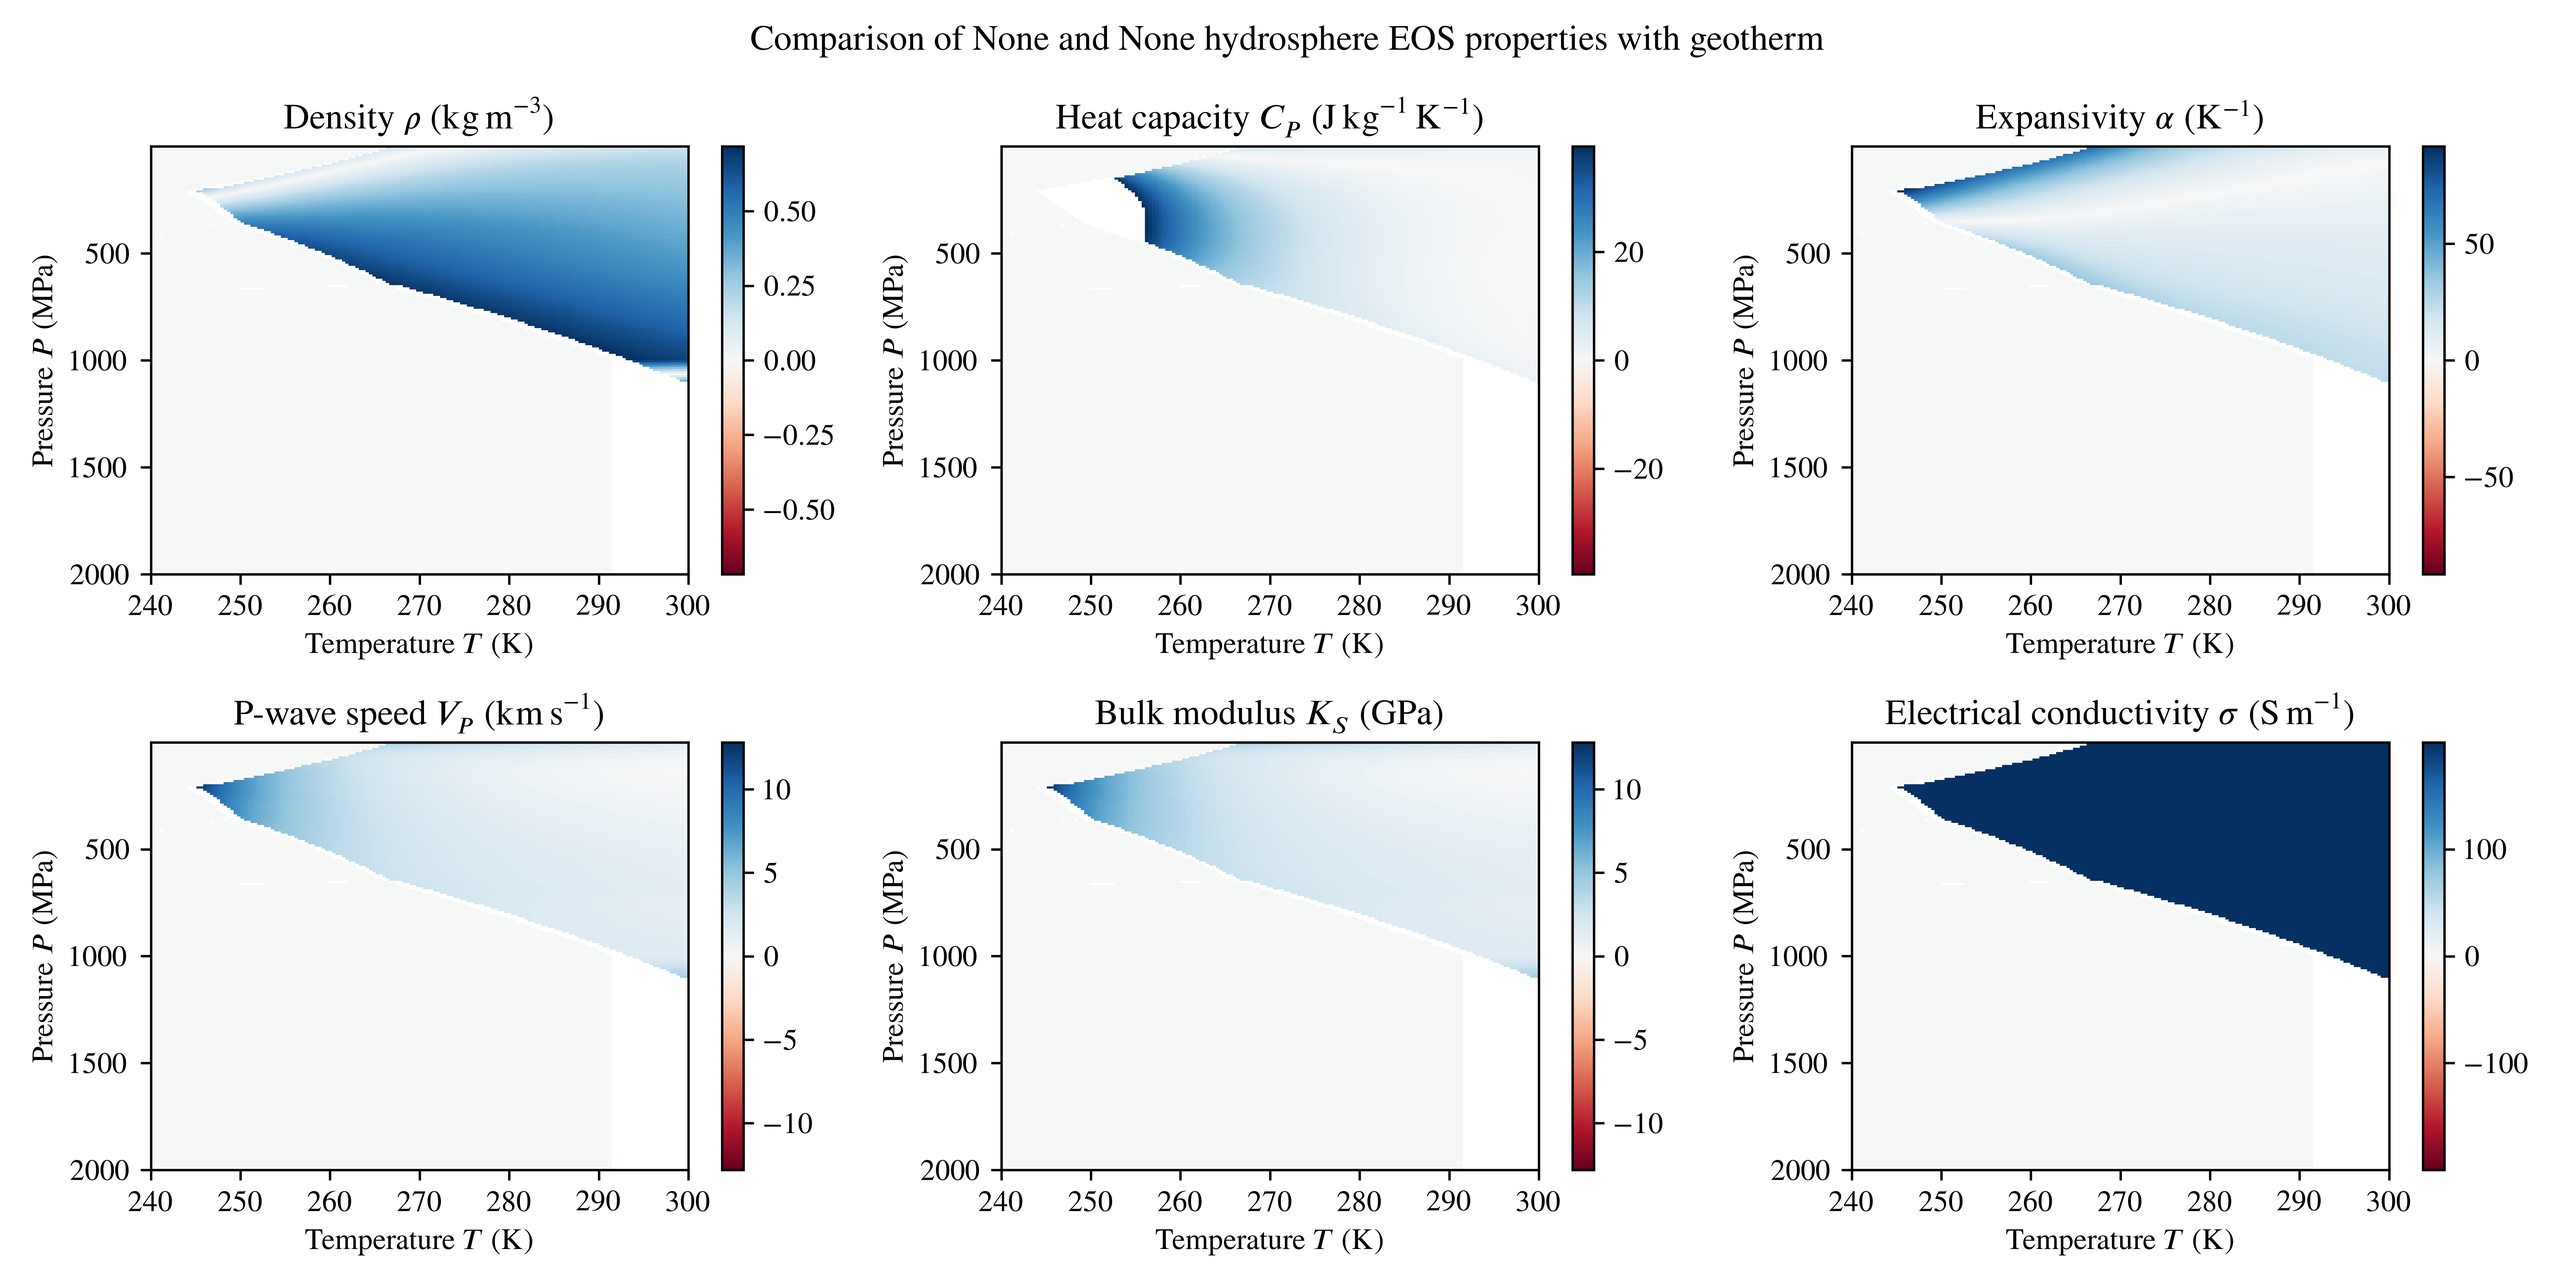
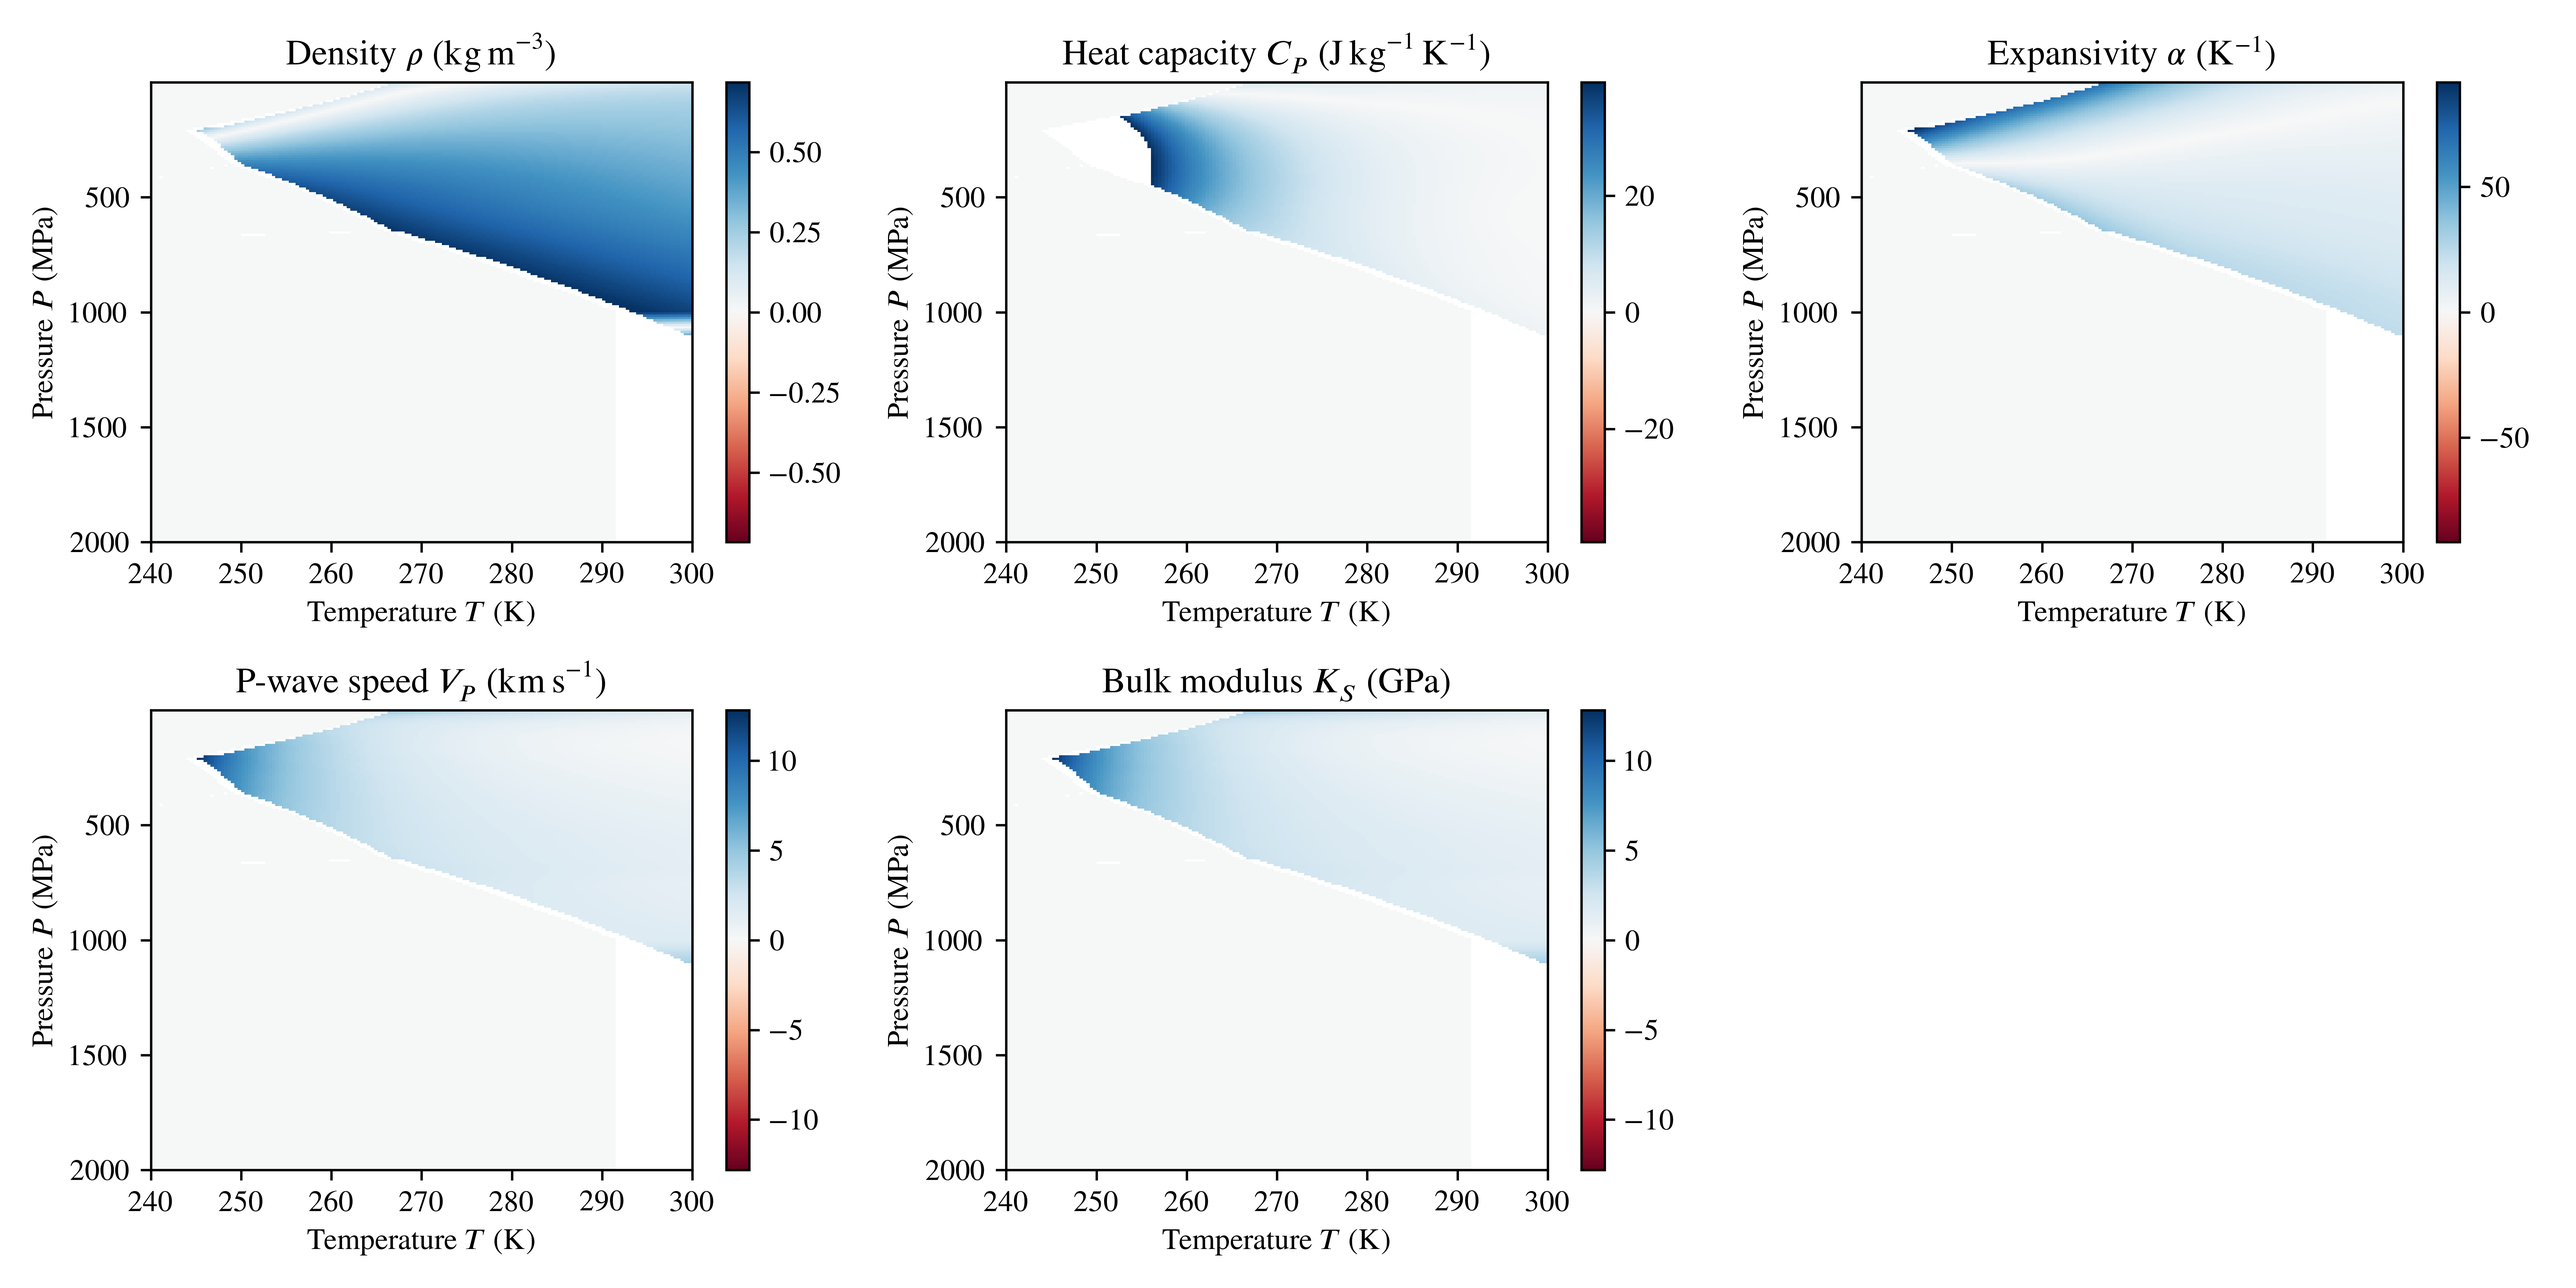
Manuscript update

diff --git a/PlanetProfile/Utilities/defineStructs.py b/PlanetProfile/Utilities/defineStructs.py
@@ -514,6 +514,7 @@ class PlanetStruct:
         self.Reduced = ReducedPlanetStruct()
         self.Magnetic = MagneticSubstruct()
         self.Gravity = GravitySubstruct()
+        self.Model = ModelSubstruct()
 
         self.fname = None  # Relative path used for .py file import
         self.saveLabel = None  # Label for savefile
@@ -2240,6 +2241,7 @@ class CustomSolutionParamsStruct:
         self.EOS_deltaT = None
         self.SOLID_PHASES = None
         self.SOLID_PHASES_TO_CONSIDER = None
+        self.REMOVE_SPECIES_NA_IN_FREZCHEM = None
 
         self.rktPath = ''
         self.databasePath = ''
@@ -2249,6 +2251,36 @@ class CustomSolutionParamsStruct:
         self.rktPath = os.path.join(ROOT, 'Thermodynamics', 'Reaktoro')
         self.databasePath = os.path.join(self.rktPath, 'Databases')
         self.frezchemPath = os.path.join(self.databasePath, self.FREZCHEM_DATABASE)
+class ModelSubstruct:
+    def __init__(self):
+        # Initialize ice layer parameter dictionaries
+        self.T_K = {}
+        self.P_MPa = {}
+        self.rho_kgm3 = {}
+        self.Cp_JkgK = {}
+        self.alpha_pK = {}
+        self.kTherm_WmK = {}
+        self.phi_frac = {}
+        self.sigma_Sm = {}
+        self.Htidal_Wm3 = {}
+        self.Tb_K = {}
+        self.Pb_MPa = {}
+        self.thickness_km = {}
+        
+        # Set default values for each ice phase
+        for phase in ['Ih', 'III', 'V']:
+            self.T_K[phase] = None
+            self.P_MPa[phase] = None
+            self.rho_kgm3[phase] = None
+            self.Cp_JkgK[phase] = None
+            self.alpha_pK[phase] = None
+            self.kTherm_WmK[phase] = None
+            self.phi_frac[phase] = None
+            self.sigma_Sm[phase] = None
+            self.Htidal_Wm3[phase] = None
+            self.Tb_K[phase] = None
+            self.Pb_MPa[phase] = None
+            self.thickness_km[phase] = None
 
 # For configuring longitudes from -180 to 180 or 0 to 360.
 def LonFormatter(longitude, EAST=True):

diff --git a/PlanetProfile/Thermodynamics/Reaktoro/WIP/Ocean_Properties_Benchmarking/Ocean_Properties_Benchmark.py b/PlanetProfile/Thermodynamics/Reaktoro/WIP/Ocean_Properties_Benchmarking/Ocean_Properties_Benchmark.py
@@ -10,6 +10,7 @@ import numpy as np
 project_root = os.path.abspath(os.path.join(os.path.dirname(__file__), "../../../../.."))
 if project_root not in sys.path:
     sys.path.insert(0, project_root)
+os.chdir(project_root) # Change directory to the project root
 from PlanetProfile.GetConfig import Params as configParams, FigMisc
 Params = configParams
 os.chdir(os.path.dirname(os.path.abspath(__file__))) # Reset directory back to this directory
@@ -24,8 +25,9 @@ FigMisc.TminHydro_K = 240
 FigMisc.TmaxHydro_K = 300
 FigMisc.SHOW_GEOTHERM = False
 FigMisc.dpi = 600
-FigMisc.propsToPlot = ['rho', 'Cp', 'alpha', 'VP', 'KS', 'sig']
+FigMisc.propsToPlot = ['rho', 'Cp', 'alpha', 'VP', 'KS']
 Params.FigureFiles.xtn = '.png'
+Params.TITLES = False
 
 """
 Generate the Seafreeze and Reaktoro (corrected) Pure H2O Comparison
@@ -73,6 +75,8 @@ Reaktoro_NaCl_Planet.saveLabel = '100g_NaCl_Reaktoro'
 
 HundredGram_NaCl_PlanetList = np.array([Reaktoro_NaCl_Planet, Seafreeze_NaCl_Planet])
 PlotPvThydro(HundredGram_NaCl_PlanetList, Params)
+
+FigMisc.propsToPlot = ['rho', 'Cp', 'alpha', 'VP', 'KS', 'sig']
 
 Seawater_Planet = PlanetStruct('Test')
 Seawater_Planet.Ocean.comp = 'Seawater'
